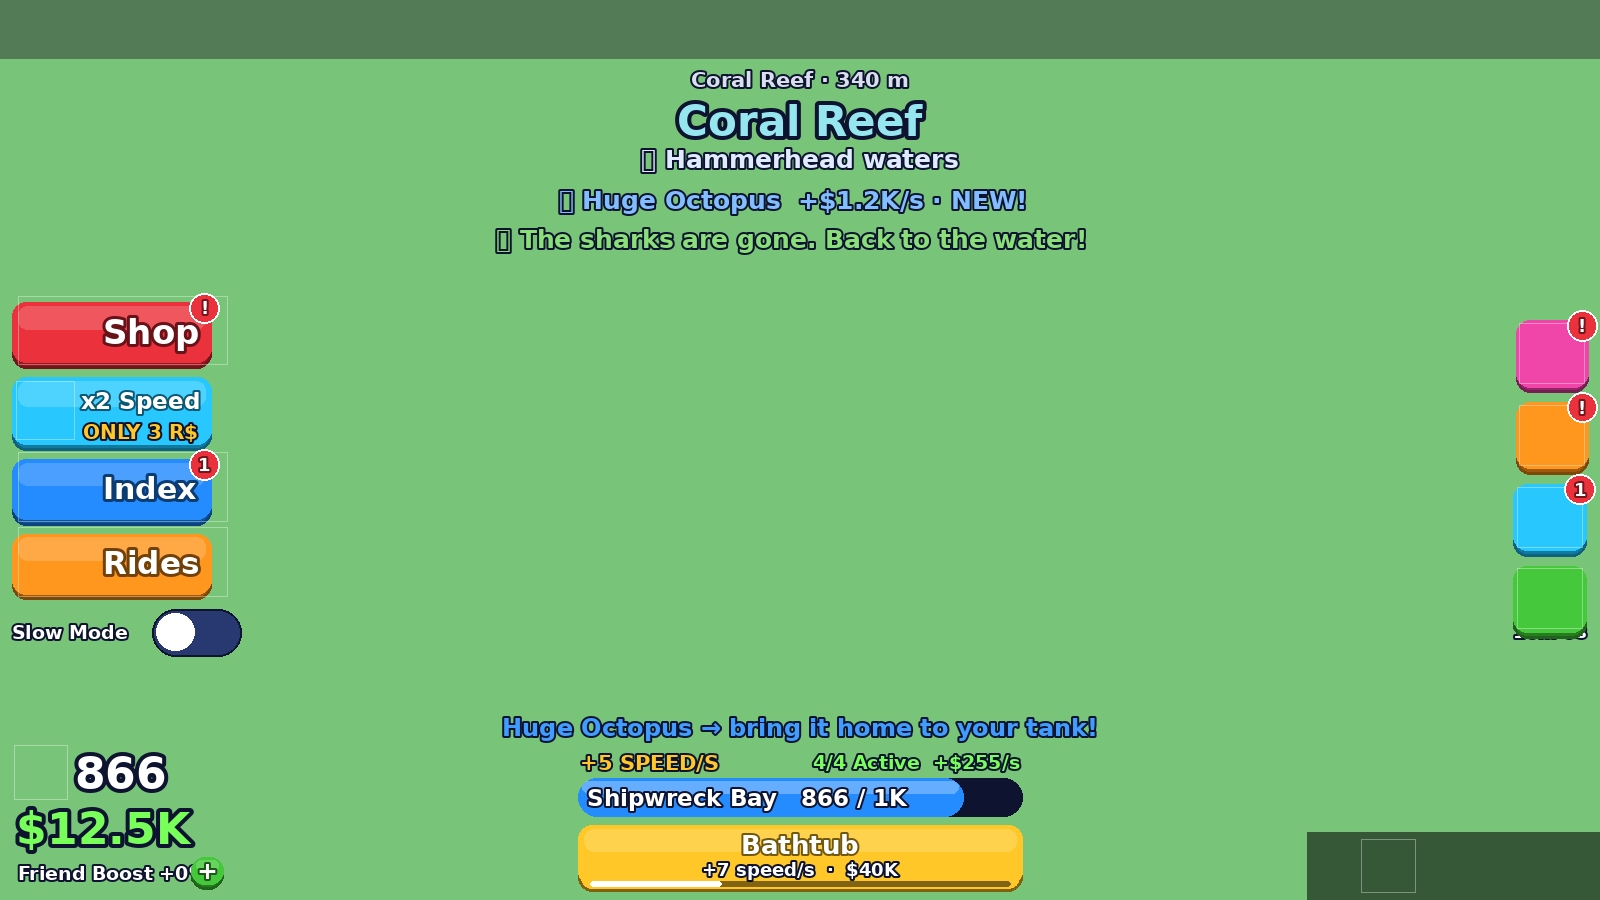
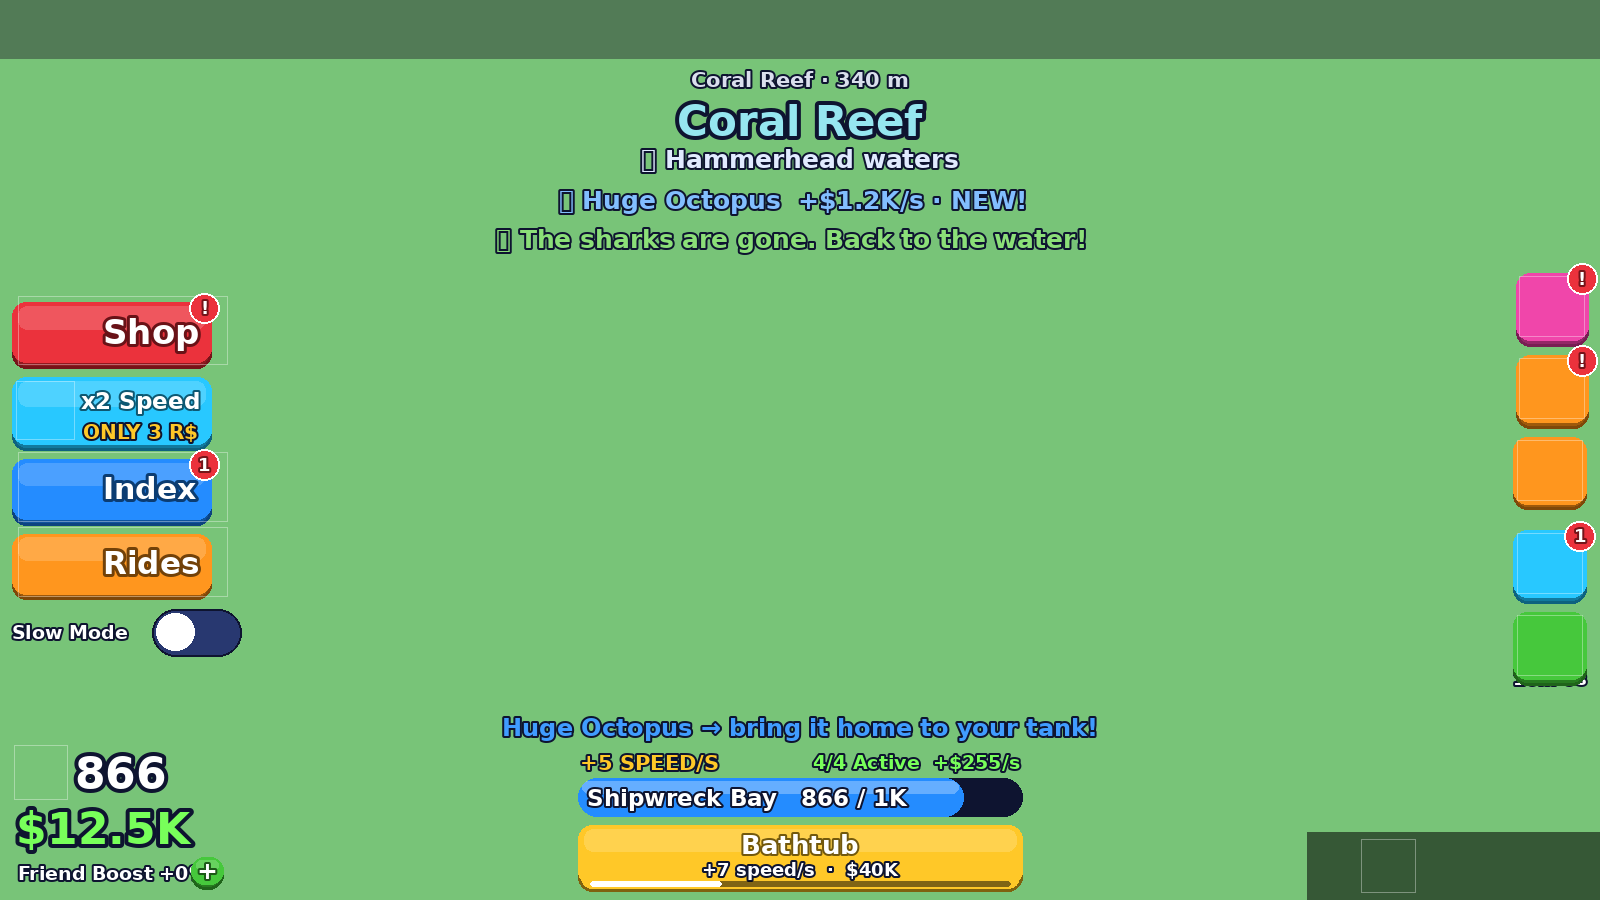
Playtime gifts: free rewards the longer you stay
- Config.PlayGifts: cash at 3 min, 2x speed at 8, a Shark Shield at 15,
  a Luck Potion at 25, an Epic creature at 40, a Legendary at 60 (minutes
  played this session; the server checks the time)
- A gold chest square in the HUD's right column counts down to the next
  gift, then bounces with CLAIM! and a badge; tap to claim (takeover +
  toast when one is ready)

Claude-Session: https://claude.ai/code/session_016U2BGmH486bstMbB3DLGUL

Changed region(s): [[0.9375, 0.28, 1.0, 0.7778]]

diff --git a/tools/preview/ui.py b/tools/preview/ui.py
@@ -62,7 +62,7 @@ task = {{
 """
     for m in ("Config", "Build", "Layout"):
         s += module(m, "shared", "mod:")
-    for m in ("UI", "Sounds", "Fx", "Notify", "Guide", "Travel", "Prompts", "HUDMobile", "HUDDesktop", "HUD", "Rewards", "Shop", "Index", "Tank", "Sell", "Hub"):
+    for m in ("UI", "Sounds", "Fx", "Notify", "Guide", "Travel", "Prompts", "HUDMobile", "HUDDesktop", "HUD", "Rewards", "Shop", "Index", "Tank", "Sell", "Hub", "PlayGifts"):
         s += module(m, "client", "cmod:")
     s += """
 local sig = function() return { Connect = function() end } end
